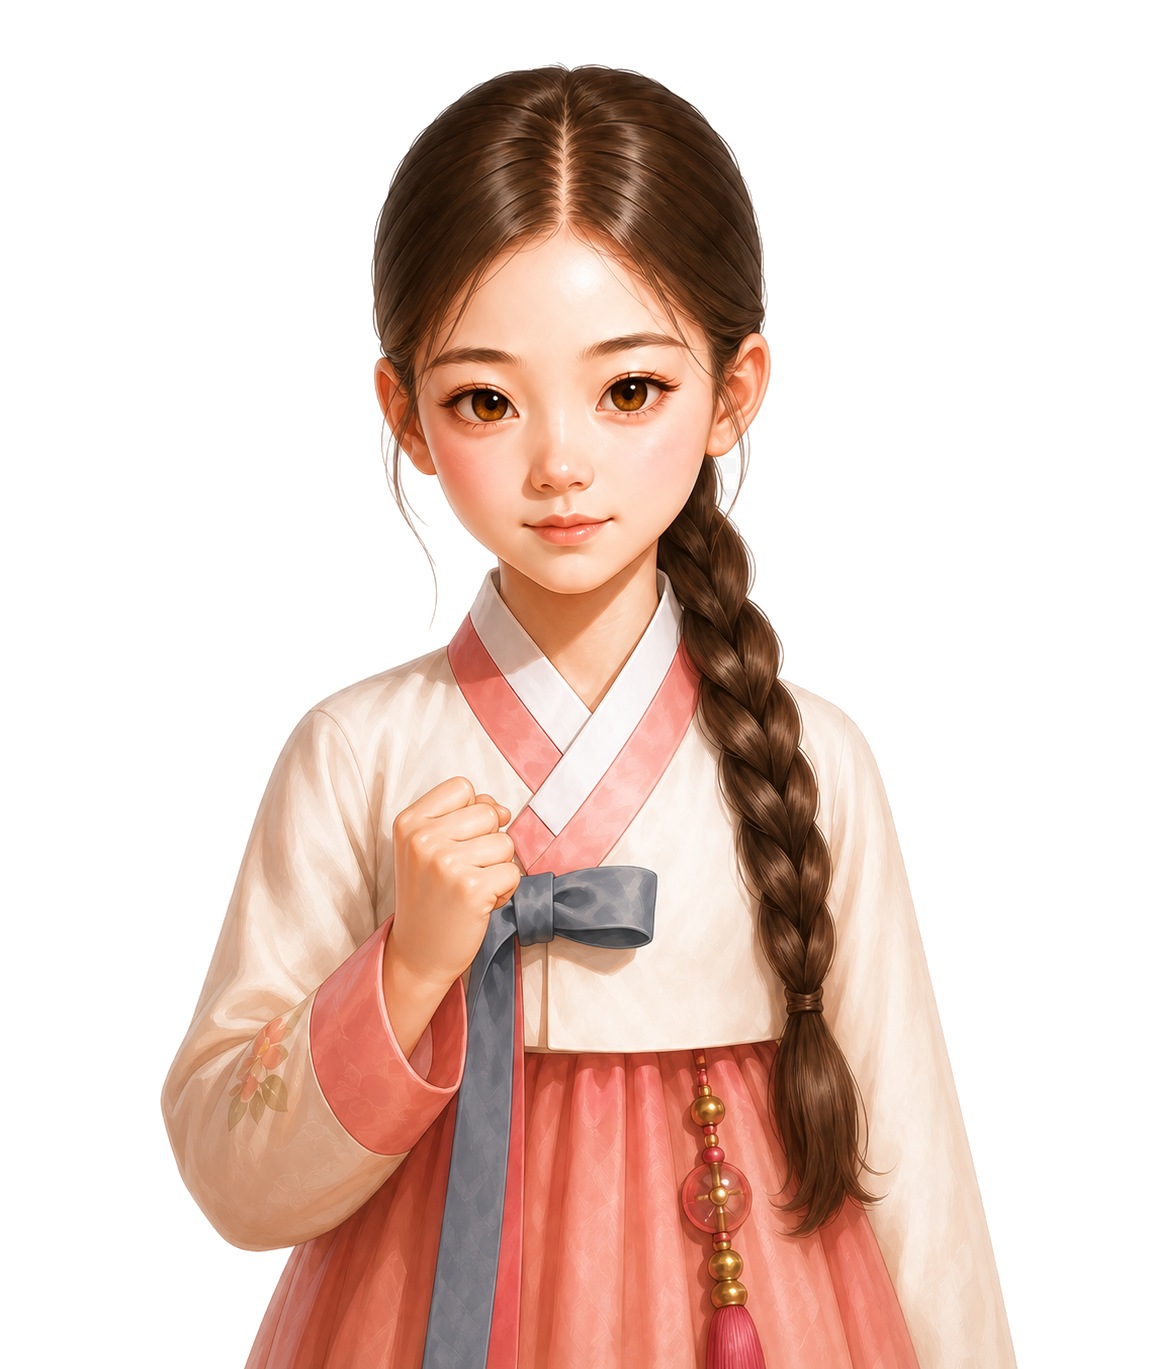
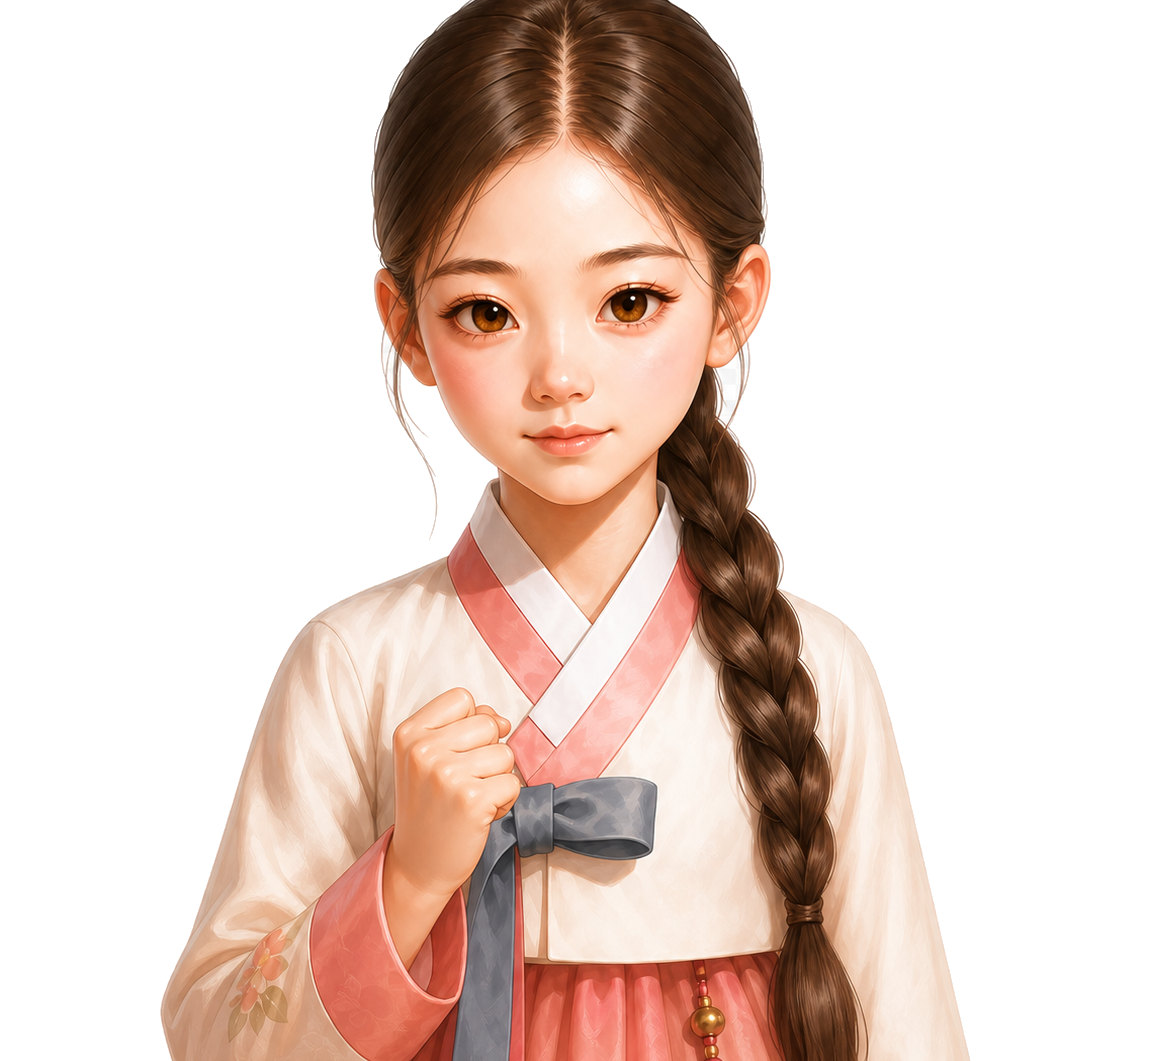
Fix age 13 festival dialogue portrait fallback

diff --git a/src/index.html b/src/index.html
@@ -4,8 +4,8 @@
   <meta charset="utf-8">
   <meta name="viewport" content="width=device-width,initial-scale=1,viewport-fit=cover">
   <title>선화공주 만들기 — 자산 로딩 테스트</title>
-  <link rel="stylesheet" href="style.css?v=0.64.252-debug">
-  <link rel="stylesheet" href="schedule.css?v=0.64.252-debug">
+  <link rel="stylesheet" href="style.css?v=0.64.253-debug">
+  <link rel="stylesheet" href="schedule.css?v=0.64.253-debug">
   <link rel="stylesheet" href="schedule-pm2.css?v=0.64.18-debug">
   <link rel="stylesheet" href="birthday.css?v=0.64.153-debug">
   <link rel="stylesheet" href="prologue.css?v=0.64.18-debug">
@@ -48,7 +48,7 @@
       </div>
       <span class="loading-caption">이야기를 열 준비가 되었어요</span>
       <button class="studio-start-sound" id="studioStartSound" type="button">인연의 문을 열기</button>
-      <small class="loading-version" aria-label="현재 게임 버전">v0.64.252-debug</small>
+      <small class="loading-version" aria-label="현재 게임 버전">v0.64.253-debug</small>
     </section>
     <section class="prologue" id="prologue" aria-label="이야기 시작 영상" hidden>
       <audio id="prologueMusic" src="../assets/audio/music/prologue-lantern-and-dawn.mp3" preload="auto" loop></audio>
@@ -258,6 +258,6 @@
       </div>
     </section>
   </main>
-  <script src="schedule-layer-manifests.js?v=0.64.252-debug"></script><script src="story-data.js?v=0.64.18-debug"></script><script src="app.js?v=0.64.252-debug"></script>
+  <script src="schedule-layer-manifests.js?v=0.64.253-debug"></script><script src="story-data.js?v=0.64.18-debug"></script><script src="app.js?v=0.64.253-debug"></script>
 </body>
 </html>

diff --git a/src/app.js b/src/app.js
@@ -248,7 +248,7 @@ const vacationIllustrations=[
 function unifiedAgeFolder(){return '09';}
 function scheduleFramePath(file){return `../assets/characters/seonhwa/schedule-actions/v2/${file}`;}
 function scheduleBasePath(file){return `../assets/characters/seonhwa/schedule-base/${file}`;}
-const scheduleAssetRevision='0.64.252-debug';
+const scheduleAssetRevision='0.64.253-debug';
 const scheduleQaParams=new URLSearchParams(location.search);
 const moonlightStandaloneQa=scheduleQaParams.get('qaHoliday')==='chuseok';
 const sehwaStandaloneQa=scheduleQaParams.get('qaHoliday')==='seollal';
@@ -1811,8 +1811,13 @@ function sehwaDialogueExpression(session){
 // 다른 연령은 해당 세트가 준비될 때까지 같은 연령의 기준 초상으로 안전하게 폴백한다.
 function sehwaExpressionAsset(expression){
   const canonical={smile:'joyful',shy:'nervous',neutral:'nervous'}[expression]||expression;
-  if(sehwaAssetAge()==='09'&&['joyful','nervous','sad','determined','startled'].includes(canonical)){
-    return `../assets/characters/seonhwa/dialogue/age-09-${canonical}-lowbraid-dialogue-v1.png?v=${scheduleAssetRevision}`;
+  const dialogueAge=sehwaAssetAge();
+  const portraitSets={
+    '09':['joyful','nervous','sad','determined','startled'],
+    '13':['nervous']
+  };
+  if(portraitSets[dialogueAge]?.includes(canonical)){
+    return `../assets/characters/seonhwa/dialogue/age-${dialogueAge}-${canonical}-lowbraid-dialogue-v1.png?v=${scheduleAssetRevision}`;
   }
   return `${baseSpriteForAge()}?v=${scheduleAssetRevision}`;
 }
